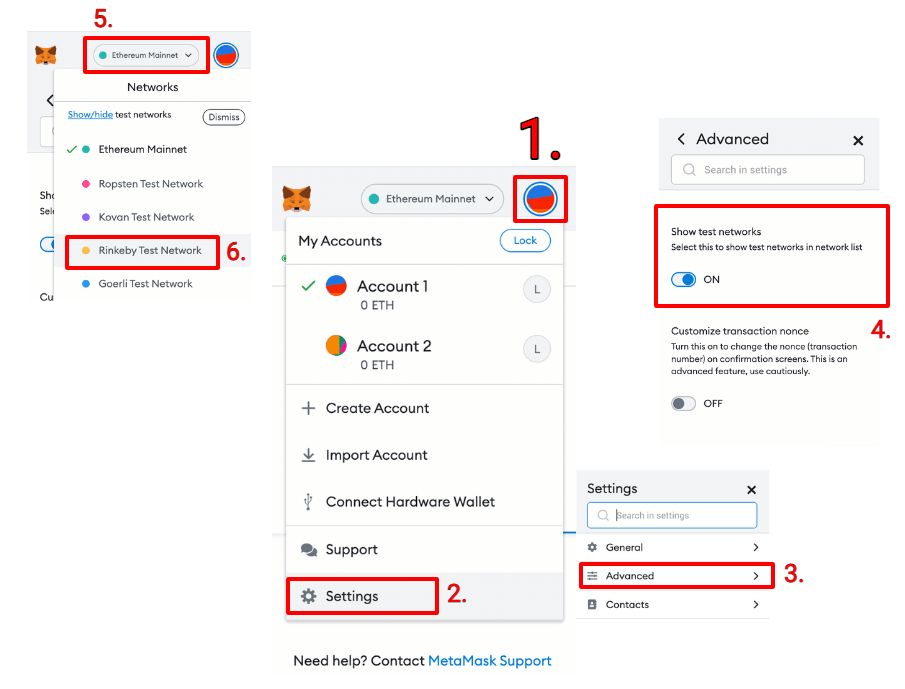
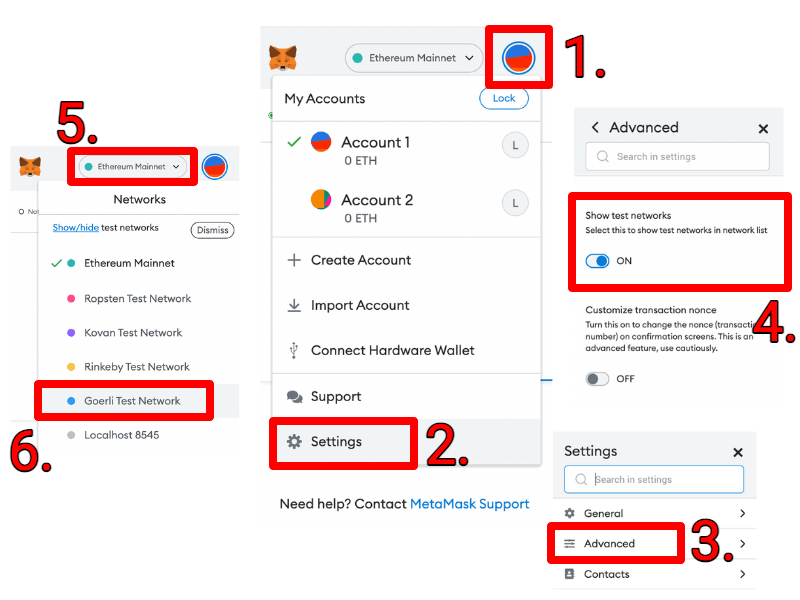
switched to goerli

diff --git a/components/TransferEther.js b/components/TransferEther.js
@@ -24,25 +24,25 @@ class TransferEther extends Component {
         const chainId = await provider.request({
             method: 'eth_chainId',
         })
-        if (chainId == '0x4') {
+        if (chainId == '0x5') {
             try {
                 const accounts = await web3.eth.getAccounts();
                 const receivedStatus = await compileDonation.methods.alreadyRecieved(accounts[0]).call();
-                this.setState({alreadyReceived: receivedStatus})
+                this.setState({ alreadyReceived: receivedStatus })
             } catch (err) {
-                console.log(error);
+                console.log(err.message);
             }
 
-            if (!this.state.alreadyReceived){
+            if (!this.state.alreadyReceived) {
                 this.setState({ loading: true });
                 const subscriberData = this.props.subscriberName + ' from ' + this.props.subscriberIp;
                 console.log(subscriberData);
                 const owner = await compileDonation.methods.owner().call();
                 const myNonce = await web3.eth.getTransactionCount(owner);
                 const accounts = await web3.eth.getAccounts();
-                const contractAddress = '0x034D906be2eD849De6a31b26F940720bF99d1f35';
+                const contractAddress = '0x9DB85729f29a3f4861D60c83992d6c85AcEc8cFd';
[1 lines of base64/hex data omitted]
-    
+
                 const signHash = EthCrypto.hash.keccak256([
                     { // prefix
                         type: 'string',
@@ -60,7 +60,8 @@ class TransferEther extends Component {
                     signHash
                 );
                 const vrs = EthCrypto.vrs.fromString(signature);
-    
+
+
                 const recieveCode = compileDonation
                     .methods.recieveDonation(
                         accounts[0],
@@ -74,7 +75,7 @@ class TransferEther extends Component {
                     privateKey
                 );
                 web3.eth.accounts.wallet.add(signer);
-    
+
                 const tx = {
                     from: owner,
                     to: contractAddress,
@@ -83,23 +84,25 @@ class TransferEther extends Component {
                 };
                 // Assigning the right amount of gas
                 tx.gas = await web3.eth.estimateGas(tx);
-    
+
+                console.log('here');
+
                 // Sending the transaction to the network
                 const receipt = await web3.eth
                     .sendTransaction(tx)
                     .once("transactionHash", (txhash) => {
                         console.log(`Mining transaction ...`);
-                        console.log(`https://rinkeby.etherscan.io/tx/${txhash}`);
+                        console.log(`https://goerli.etherscan.io/tx/${txhash}`);
                     });
                 // The transaction is now on chain!
                 console.log(`Mined in block ${receipt.blockNumber}`);
                 this.setState({ loading: false })
                 this.setModalOff();
                 this.props.modalControlNext();
-             }else{
+            } else {
                 this.setModalOff();
                 this.props.modalControlNext();
-             }
+            }
 
         } else {
             this.setState({ errorMessage: true })
@@ -159,8 +162,8 @@ class TransferEther extends Component {
                                     </Button.Content>
                                 </Button></Grid.Column></Grid>}
                     >
-                        <Modal.Header>Switching to the Rinkeby Test Network</Modal.Header>
-                        <Header as = 'h2'><Icon name='arrow alternate circle right'/><Header.Content>Click on the Meta Mask browser extension and navigate to "Settings"</Header.Content></Header>
+                        <Modal.Header>Switching to the Goerli Ethereum Network</Modal.Header>
+                        <Header as='h2'><Icon name='arrow alternate circle right' /><Header.Content>Click on the Meta Mask browser extension and navigate to "Settings"</Header.Content></Header>
                         <Modal.Content image>
                             <Image size='big' src='metaMask.png' wrapped />
                             <Modal.Description>
@@ -174,15 +177,15 @@ class TransferEther extends Component {
                                                     <br />Toggle the switch to "ON".</p>
                                             </List.Description>
                                         </List.Content></List.Item>
-                                    <List.Item icon='arrow alternate circle right' content='Switch from "Ethereum Mainnet" to "Rinkeby Test Network".' />
+                                    <List.Item icon='arrow alternate circle right' content='Switch from "Ethereum Mainnet" to "Goerli Ethereum Network".' />
                                 </List>
                                 <div>
-                            {this.state.errorMessage ?
-                                <Message negative>
-                                    <Message.Header>Please Select the Rinkeby Test Network</Message.Header>
-                                    <p>Since this is just a demonstration, we will not be using real money. Rinkeby is built specifically for testing purposes.</p>
-                                </Message> : ''}
-                        </div>
+                                    {this.state.errorMessage ?
+                                        <div><p></p><Message negative>
+                                            <Message.Header>Please Select the Goerli Ethereum Network</Message.Header>
+                                            <p>Since this is just a demonstration, we will not be using real money. Goerli is built specifically for testing purposes.</p>
+                                        </Message></div> : ''}
+                                </div>
                             </Modal.Description>
                         </Modal.Content>
                         <br /><br />
@@ -190,16 +193,16 @@ class TransferEther extends Component {
                             <Icon name='circle notched' loading />
                             <Message.Content>
                                 <Message.Header>Whoa! Is that a loading screen?</Message.Header>
-                                    Every data alteration in the blockchain creates a new block with the modified data. This takes aboout 20 seconds and costs real money.  
+                                Every data alteration in the blockchain creates a new block with the modified data. This takes aboout 20 seconds and costs real money.
                             </Message.Content>
                         </Message> : ''}
                         <Modal.Actions>
                             {!this.state.loading ? <div><Button basic color='red' inverted onClick={this.setModalOff}>
                                 <Icon name='remove' /> No
                             </Button>
-                            <Button color='green' inverted onClick={this.modalEtherTransfer}>
-                                <Icon name='checkmark' /> Yes
-                            </Button></div> : ''}
+                                <Button color='green' inverted onClick={this.modalEtherTransfer}>
+                                    <Icon name='checkmark' /> Yes
+                                </Button></div> : ''}
                         </Modal.Actions>
                     </Modal>
                 </div>

diff --git a/components/welcomeSteps/FirstStep.js b/components/welcomeSteps/FirstStep.js
@@ -82,10 +82,10 @@ class FirstStep extends Component {
                                   <br />
                                   SHA256 is a cryptographic hash function that allows any data to be encrypted into 64 digits. We could type in and encrypt the entire Song of Ice and Fire saga into 64 digits and decrypt it with any computer. Blockchain tachnology is based on top of this core idea. 
                                   <br />In a blockchain, a number (nonce) is encrypted along with the data and the resulting SHA256 hash recorded in the network. Blockchains protocol requires the nonce to be a number such that the numerical equivalency of the resulting 64 digit SHA256 hash is less than a certain value. For the data to be decrypted, we need to identify the correct nonce. In order to identify the correct nonce, computers have to iterate over thousands of values until it resolves the correct nonce attached to the particular data. This, as we can imagine, consumes computing power and time. However, this ensures that every record is unique and immutable as altering the data will require a new nonce to be declared to satisfy the blockchain protocols.
-                                  <br />In order to solve for nonce and successfuly record a transaction into the blockchain network, users source processing powers from computers connected to the network. Since, computer requires electricity and electricity costs money, the computers providing processing power are compensated with "gas fees". Gas fees is determined by supply and demand. I might have finally understood some aspects of the immensely vast blockchain technology. We could equate the cost for recording a transaction with electricity units consumed. Thus, assigning a value to cryptocurrency makes much more sense since solving for "nonce" requires monetary but variable contribution depending on supply and demand. 
+                                  <br />In order to solve for nonce and successfuly record a transaction into the blockchain network, users source processing powers from computers connected to the network. Since, computer requires electricity and electricity costs money, the computers providing processing power are compensated with "gas fees". Gas fees is determined by supply and demand. <i>This might be quite a simplistic take but we could equate the cost for recording a transaction with electricity units consumed.</i> Thus, assigning a value to cryptocurrency makes much more sense since solving for "nonce" requires monetary but variable contribution depending on supply and demand. 
                                   <div>
                                   <br/>
-                                  <p>Simply speaking we can imagine blockchain network as a pandora box that can open with million different keys but will also contain a million specific things. The complexity of storing your item in the pandora box is defined by a blockchain network as to balance the economy.</p>
+                                  <p>Blockchain network is a pandora box that can open with million different keys but will also contain a million specific things. The complexity of storing your item in the pandora box is defined by a blockchain network as to balance the economy. For the purpose of our demonstartion, we will be using the Goerli Ethereum Blockchain network. All our interactions in the project will be forever immortalized in the Goerli Ethereum blockchain network.</p>
                                   <p>The demonstration starting next page illustrates the ease of cross border retail transactions with pre defined payment path. We can interact with the demonstration with our web browser with the help of Meta Mask. MetaMask is a Cryptocurrency wallet used to interact with the Ethereum blockchain.</p>
                                   <a href="https://chrome.google.com/webstore/detail/metamask/nkbihfbeogaeaoehlefnkodbefgpgknn?hl=en" target="_blank">DONWLOAD METAMASK HERE</a>
                                   <p><br/><i><b>Please refresh your browser after installing MetaMask, the Overview flag will turn green and button below will be activated.</b></i></p>

diff --git a/components/welcomeSteps/SecondStep.js b/components/welcomeSteps/SecondStep.js
@@ -75,12 +75,14 @@ class SecondStep extends Component {
     // Assigning the right amount of gas
     tx.gas = await web3.eth.estimateGas(tx);
 
+    console.log('here');
+
     // Sending the transaction to the network
     const receipt = await web3.eth
       .sendTransaction(tx)
       .once("transactionHash", (txhash) => {
         console.log(`Mining transaction ...`);
-        console.log(`https://rinkeby.etherscan.io/tx/${txhash}`);
+        console.log(`https://goerli.etherscan.io/tx/${txhash}`);
       });
     // The transaction is now on chain!
     console.log(`Mined in block ${receipt.blockNumber}`);
@@ -137,6 +139,7 @@ class SecondStep extends Component {
             <div>
               <div>
                 <br/><p>KG Motors is proud to announce our partnership with Tesla Cyber Truck. As authorized sellers, we are offering a specialized financing package of 40% downpayment and 4 to 6 even payments.</p>
+                <p>Signees will make a downpayment of 40,000 to initialize the lease and make total payment of 60,000 over the next 6 months.</p>
                 <p>In lieu of transparency, missing more than 2 or the final payment will result in the car being repossesed and sold in auction.</p>
                 <p>Signees are requested to review the terms carefully since the path will be executed exactly as defined in the contract and cannot be altered or intervened with.</p>
                </div>
@@ -144,14 +147,15 @@ class SecondStep extends Component {
                 <div className="item">
                   <div className="header">Key Details: </div>
                   <ul>
-                    <li>The contract can be initialized by making a downpayment of 0.00004 Rinkeby Test Ether. The deposit is non refundable and paid directly to KG Motors.</li>
+                    <li>The contract can be initialized by making a downpayment of 40,000 Gwei (0.00004 ether). The deposit is non refundable and paid directly to KG Motors.</li>
                     <li>The remaining balance to be paid in between 4 to 6 installments.</li>
                     <li>Lease Owner is permitted a maximum of 2 missed payments. Third miss results in forfeiture.</li>
+                    <li>Payment of first installment is mandatory.</li>
                     <li>Missing the final payment results in forfeiture.</li>
                     <li>Forfeited vehicles to be offered in auction with the revenue from sale transfered to KG motors for balance owed. Surplus balance transfered to forfeiting party.</li>
                     <li>In auction, bids have to exceed prior bids to be registered.</li>
                     <li>In auction, contracts can be bought out if matched the buy out clause. </li>
-                    <li>In order to interact with the ethereum blockchain network, an initializing balance of 0.01 Rinkeby Ether will be transfered into your account.</li>
+                    <li>In order to interact with the ethereum blockchain network, an initializing balance of 0.01 Goerli Ethereum will be transfered into your account.</li>
                     <li>A user can request ether once with one wallet key.</li>
                   </ul>
                 </div>

diff --git a/pages/admin.js b/pages/admin.js
@@ -5,23 +5,23 @@ import { Form, Button } from 'semantic-ui-react';
 
 
 class Admin extends Component {
-  static async getInitialProps(props) {
+  // static async getInitialProps(props) {
 
-    const campaigns = await compileDonation.methods.owner().call();
-    const subscriberDetails = await compileDonation.methods.getSubscribersDetails().call();
-    const firstSubscriber = await compileDonation.methods.subscribers(0).call();
+  //   const campaigns = await compileDonation.methods.owner().call();
+  //   const subscriberDetails = await compileDonation.methods.getSubscribersDetails().call();
+  //   const firstSubscriber = await compileDonation.methods.subscribers(0).call();
 
-    return {
-      balance: web3.utils.fromWei(subscriberDetails[0], "ether"),
-      subscriberCount: subscriberDetails[1],
-      campaigns,
-      firstSubscriber
-    };
-  }
+  //   return {
+  //     balance: web3.utils.fromWei(subscriberDetails[0], "ether"),
+  //     subscriberCount: subscriberDetails[1],
+  //     campaigns,
+  //     firstSubscriber
+  //   };
+  // }
 
   addBalance = async (e) => {
     e.preventDefault();
-    const contractAddress = '0x034D906be2eD849De6a31b26F940720bF99d1f35'
+    const contractAddress = '0x9DB85729f29a3f4861D60c83992d6c85AcEc8cFd'
     // Configuring the connection to an Ethereum node
     const signer = web3.eth.accounts.privateKeyToAccount(
[1 lines of base64/hex data omitted]
@@ -31,7 +31,7 @@ class Admin extends Component {
     const tx = {
       from: signer.address,
       to: contractAddress,
-      value: web3.utils.toWei("0.003"),
+      value: web3.utils.toWei("0.007"),
     };
     // Assigning the right amount of gas
     tx.gas = await web3.eth.estimateGas(tx);
@@ -41,28 +41,28 @@ class Admin extends Component {
       .sendTransaction(tx)
       .once("transactionHash", (txhash) => {
         console.log(`Mining transaction ...`);
-        console.log(`https://rinkeby.etherscan.io/tx/${txhash}`);
+        console.log(`https://goerli.etherscan.io/tx/${txhash}`);
       });
     // The transaction is now on chain!
     console.log(`Mined in block ${receipt.blockNumber}`);
   }
 
   render() {
-    const {
-      campaigns,
-      balance,
-      subscriberCount,
-      firstSubscriber
+    // const {
+    //   campaigns,
+    //   balance,
+    //   subscriberCount,
+    //   firstSubscriber
       
-    } = this.props;
+    // } = this.props;
     return (
       <div>
-        <div>
+        {/* <div>
           Owner: {campaigns}<br />
           Total Balance: {balance}<br />
           subscriberCount: {subscriberCount}<br/>
           Subscriber Detail: {firstSubscriber}
-        </div>
+        </div> */}
         <div>
           <Form>
             <Button onClick={this.addBalance}>Add Balance</Button>

diff --git a/components/Tutorial.js b/components/Tutorial.js
@@ -76,7 +76,7 @@ class Tutorial extends Component {
             //     .sendTransaction(tx)
             //     .once("transactionHash", (txhash) => {
             //         console.log(`Mining transaction ...`);
-            //         console.log(`https://rinkeby.etherscan.io/tx/${txhash}`);
+            //         console.log(`https://goerli.etherscan.io/tx/${txhash}`);
             //     });
             // // The transaction is now on chain!
             // console.log(`Mined in block ${receipt.blockNumber}`);
@@ -245,7 +245,7 @@ class Tutorial extends Component {
                                                 <div className="content">
                                                     <div className="header">Fourth Step</div>
                                                     <div className="description">Scroll a little below to find an option called 'Show test networks'. Toggle to 'on'.
-                                                        <br />I have conditionally required the application to only authorize rinkeby transactions since the application will work fine on the main Ether network as well.
+                                                        <br />I have conditionally required the application to only authorize Goerli transactions since the application will work fine on the main Ether network as well.
                                                     </div>
                                                 </div></div></div>
                                         <div>
@@ -284,7 +284,7 @@ class Tutorial extends Component {
                                             <div className="item">
                                                 <div className="content">
                                                     <div className="header">Second Step</div>
-                                                    <div className="description">Click on 'Ethereum Mainnet'. There will be an option called 'Rinkeby Test Network'. </div>
+                                                    <div className="description">Click on 'Ethereum Mainnet'. There will be an option called 'Goerli Ethereum Network'. </div>
                                                 </div></div></div>
                                         <div>
                                         <Button onClick={this.prevStepMeta} content='Back' icon='left arrow' labelPosition='left' />

diff --git a/pages/campaigns/show.js b/pages/campaigns/show.js
@@ -27,7 +27,7 @@ class CampaignShow extends Component {
   static async getInitialProps(props) {
 
     const etherscan_api = 'U3VC9K7EK1YQUZD9XZUUUW3DQV3P29HKC2';
-    const endpoint = "https://api-rinkeby.etherscan.io/api";
+    const endpoint = "https://api-goerli.etherscan.io/api";
     const initializationTime = await axios
       .get(endpoint + `?module=account&action=txlistinternal&address=${props.query.address}&blocktype=blocks&apikey=${etherscan_api}`)
       .then(res => {
@@ -348,7 +348,7 @@ class CampaignShow extends Component {
                   <Progress value={Number(responseCounter) > Number(update_counter) ? Number(responseCounter) : Number(update_counter)} total='6' progress='ratio' indicating success={completed_contract} error={broken_contract} />
                   <div className='makePaymentButton'>
                     <Button.Group>
-                      <Button disabled={loading} negative onClick={responseCounter == 6 || skipCounter == 2 ? this.setModalOn : this.skipPayment}>Skip Payment</Button>
+                      <Button disabled={loading || responseCounter == 0} negative onClick={responseCounter == 6 || skipCounter == 2 ? this.setModalOn : this.skipPayment}>Skip Payment</Button>
 
                       {/* <Button disabled={loading} negative onClick={responseCounter == 6 ? this.skipPaymentModal ? skipCounter == 2 : this.skipPaymentModal : this.skipPayment}>Skip Payment</Button> */}
                       <Button.Or />

diff --git a/pages/auctions/show.js b/pages/auctions/show.js
@@ -21,7 +21,7 @@ class CampaignShow extends Component {
   static async getInitialProps(props) {
     const campaign = Campaign(props.query.address);
     const etherscan_api = 'U3VC9K7EK1YQUZD9XZUUUW3DQV3P29HKC2'
-    const endpoint = "https://api-rinkeby.etherscan.io/api"
+    const endpoint = "https://api-goerli.etherscan.io/api"
 
     const summary = await campaign.methods.getSummary().call();
     // const repossesed = await campaign.methods.repossesed(`${props.query.address}`).call();
@@ -130,7 +130,7 @@ class CampaignShow extends Component {
         return (
           {
             '0': `Claiming highest bid of ${Number(web3.utils.fromWei((this.props.recentBids[this.props.bidCounter - 1][0]), 'gwei')).toLocaleString()}`,
-            '1': 'If you receive rinkeby ether in the future, it will most likely be the surplus transfer from a succesful auction.'
+            '1': 'If you receive Goerli ether in the future, it will most likely be the surplus transfer from a succesful auction.'
           })
       case 'buy':
         return (
